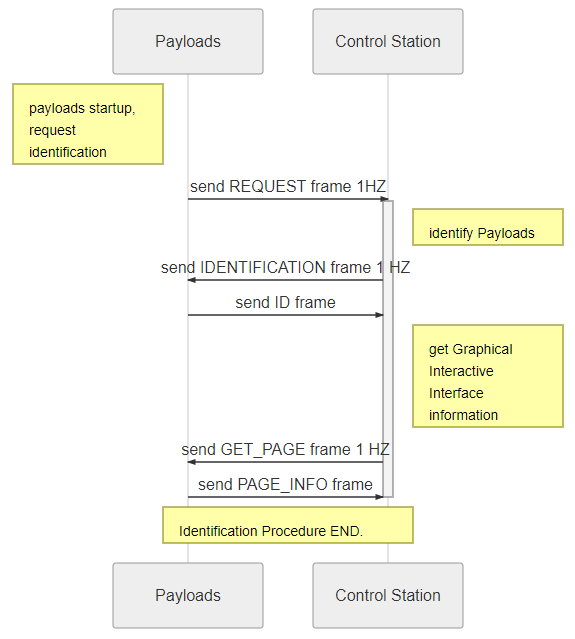
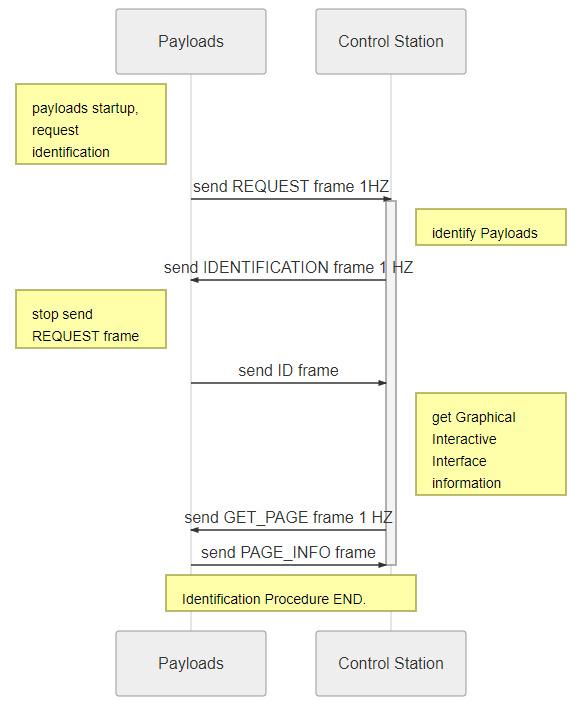
update software protocol

diff --git a/protocol/protocol.md b/protocol/protocol.md
@@ -77,9 +77,13 @@ of MMC drone platform and GCS/MCS  is little endian.
 that is, from byte 1 to byte n+2 of the data frame. [The CRC algorithm](#crc_table).  
 - The maximum length of PAYLOAD DATA is 253 bytes.  
 
+![data_frame](../resources/important1.jpg)***`PAYLOAD DATA` field must be 1-byte aligned and little-endian***
+
 *Example*  
 A Data Frame which contains 3 CAN message packets.
 ![data_frame](../resources/data_frame_example.png)
+
+
 
 ## Application Layer
 
@@ -89,8 +93,38 @@ The details are shown in the SequenceDiagram below.The control station(GCS/MCS)
 obtains the Payload ID and the *Graphical Interactive Interface* file information 
 during the procedure, so that *Graphical Interactive Interface* can be correctly 
 loaded after the procedure ends. The Payloads should provide a unique ID for 
-access to the MMC cloud platform `MSpace`.
-![identify](../resources/identify.jpg)
+access to the MMC cloud platform `MSpace`.  
+![identify](../resources/identify.jpg)  
+*Data Frames*
+
+* REQUEST  
+Payload send `REQUEST` data frame at a frequency of 1 Hz to inform the control 
+station that there is a new payload.The frame details are shown in the figure below:  
+
+|FRAME HEAD|FRAME TYPE|LENGTH|PAYLOAD DATA|CRC|
+|------------------|---------------|-------------------|-------|------|
+|0xA5|0xFD|3|0x00|crc|
+
+* IDENTIFICATION  
+GCS/MCS send `IDENTIFICATION` data frame at a frequency of 1 Hz to inform Payloads 
+send unique ID when GCS/MCS received the `REQUEST` data frame.The frame details 
+are shown in the figure below:  
+
+|FRAME HEAD|FRAME TYPE|LENGTH|PAYLOAD DATA|CRC|
+|------------------|---------------|-------------------|-------|------|
+|0xA5|0xFF|3|0x01|crc|
+
+* ID  
+Payload stop the `REQUEST` data frame and send `ID` data frame  Whenever 
+a `IDENTIFICATION` data frame is received.The frame details are shown in 
+the figure below:  
+
+|FRAME HEAD|FRAME TYPE|LENGTH|PAYLOAD DATA|CRC|
+|------------------|---------------|-------------------|-------|------|
+|0xA5|0xFE|14|uint16_t Vender_ID<br/>uint16_t type</br>uint32_t UID</br>uint32_t version|crc|
+
+* GET_PAGE  
+* PAGE_INFO  
 
 
 # CRC Algorithm <a name="crc_table"></a>
